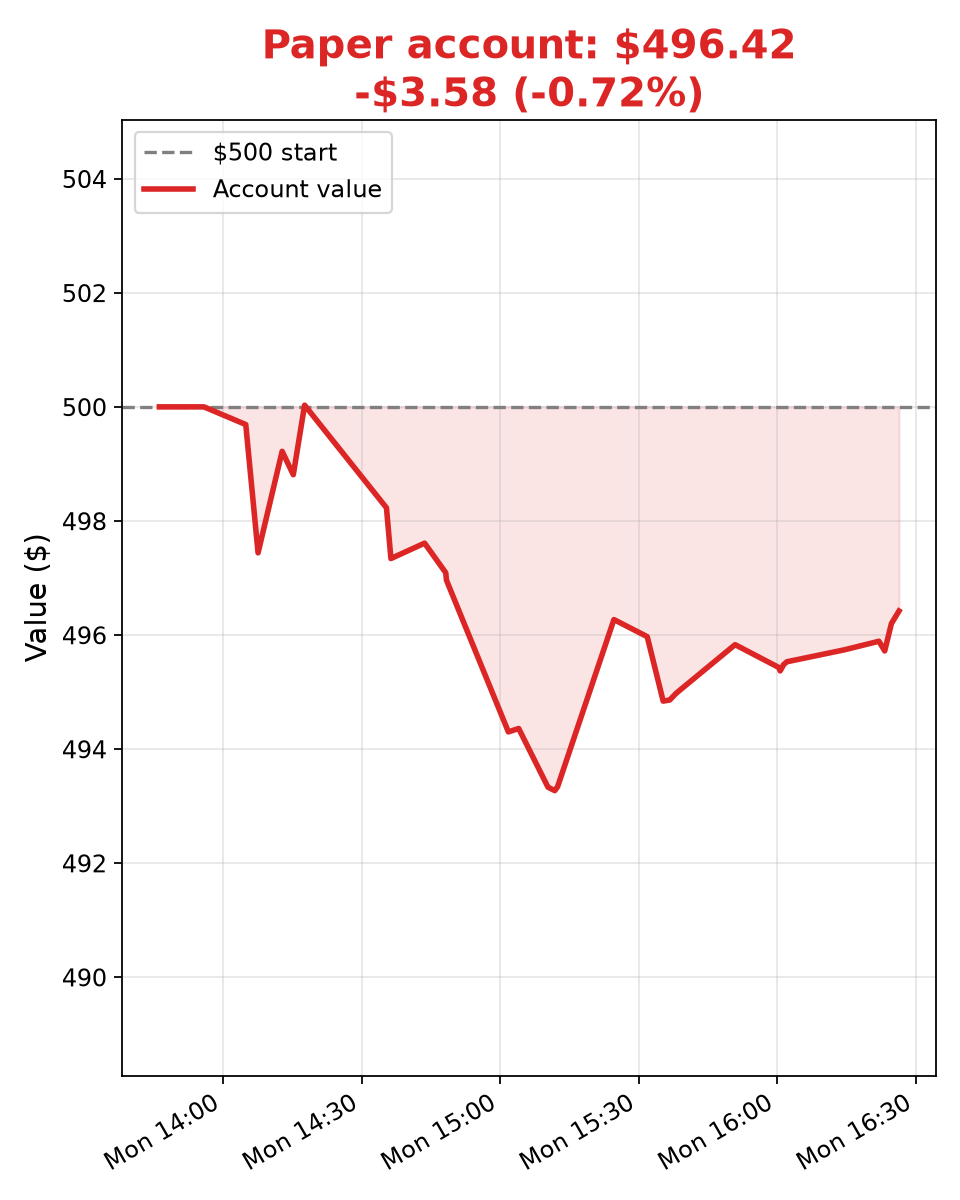
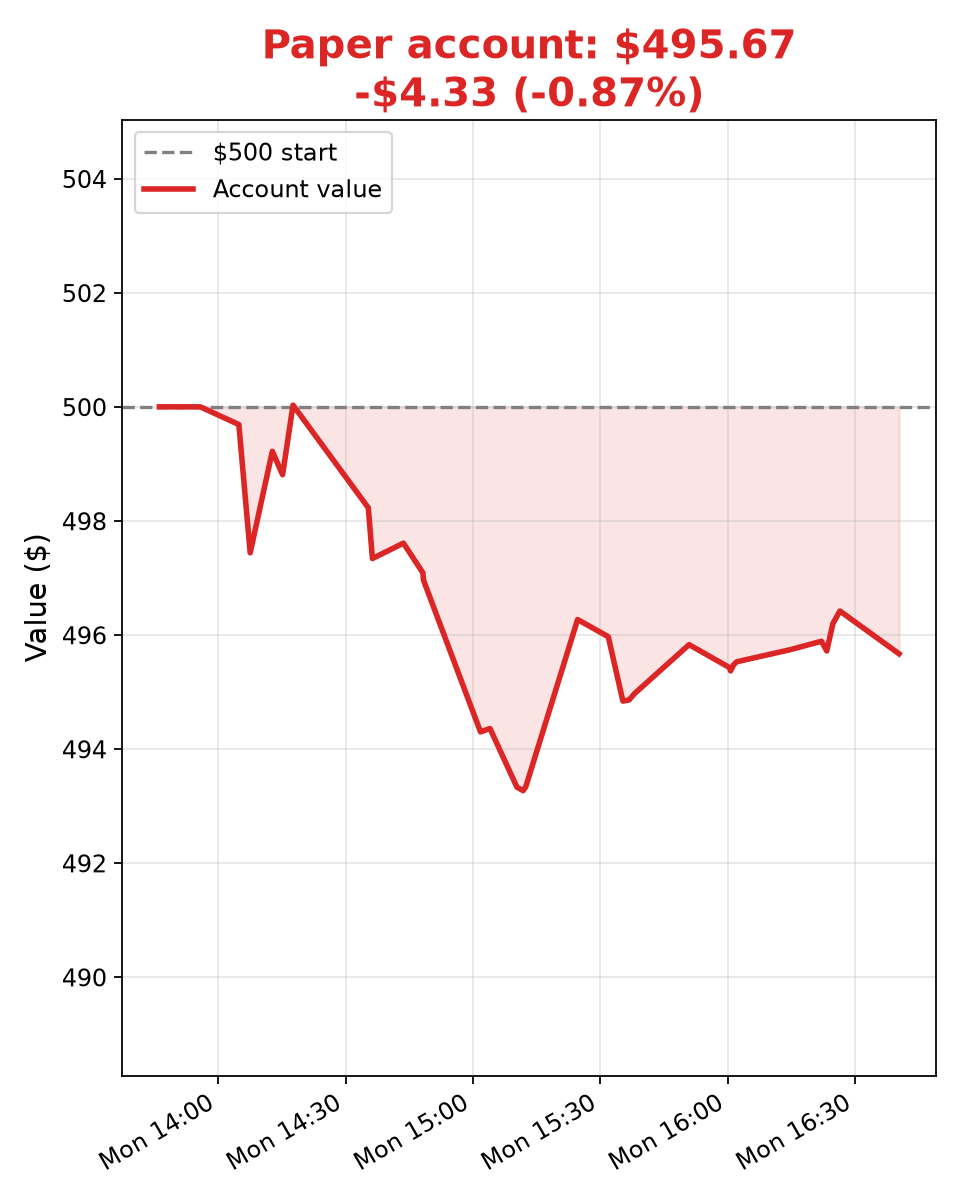
Update 2026-10-12T16:40:41Z

diff --git a/ledger.md b/ledger.md
@@ -57,3 +57,4 @@
 
 - 2026-10-12T16:24:46Z — total $496.20, cash $98.62 (Bot2 mark, no trade; FRO 58.94, DHT 26.025, ASTS 53.623 marked; no stops/targets hit)
 - 2026-10-12T16:26:25Z — total $496.42, cash $98.62 (Jr mark, no trade; FRO 58.965, DHT 26.03, ASTS 53.69 marked; no stops/targets hit)
+- 2026-10-12T16:40:20Z — total $495.67, cash $98.62 (Stock Bot mark, no trade; FRO 58.91, DHT 25.955, ASTS 53.58 marked; no stops/targets hit)
